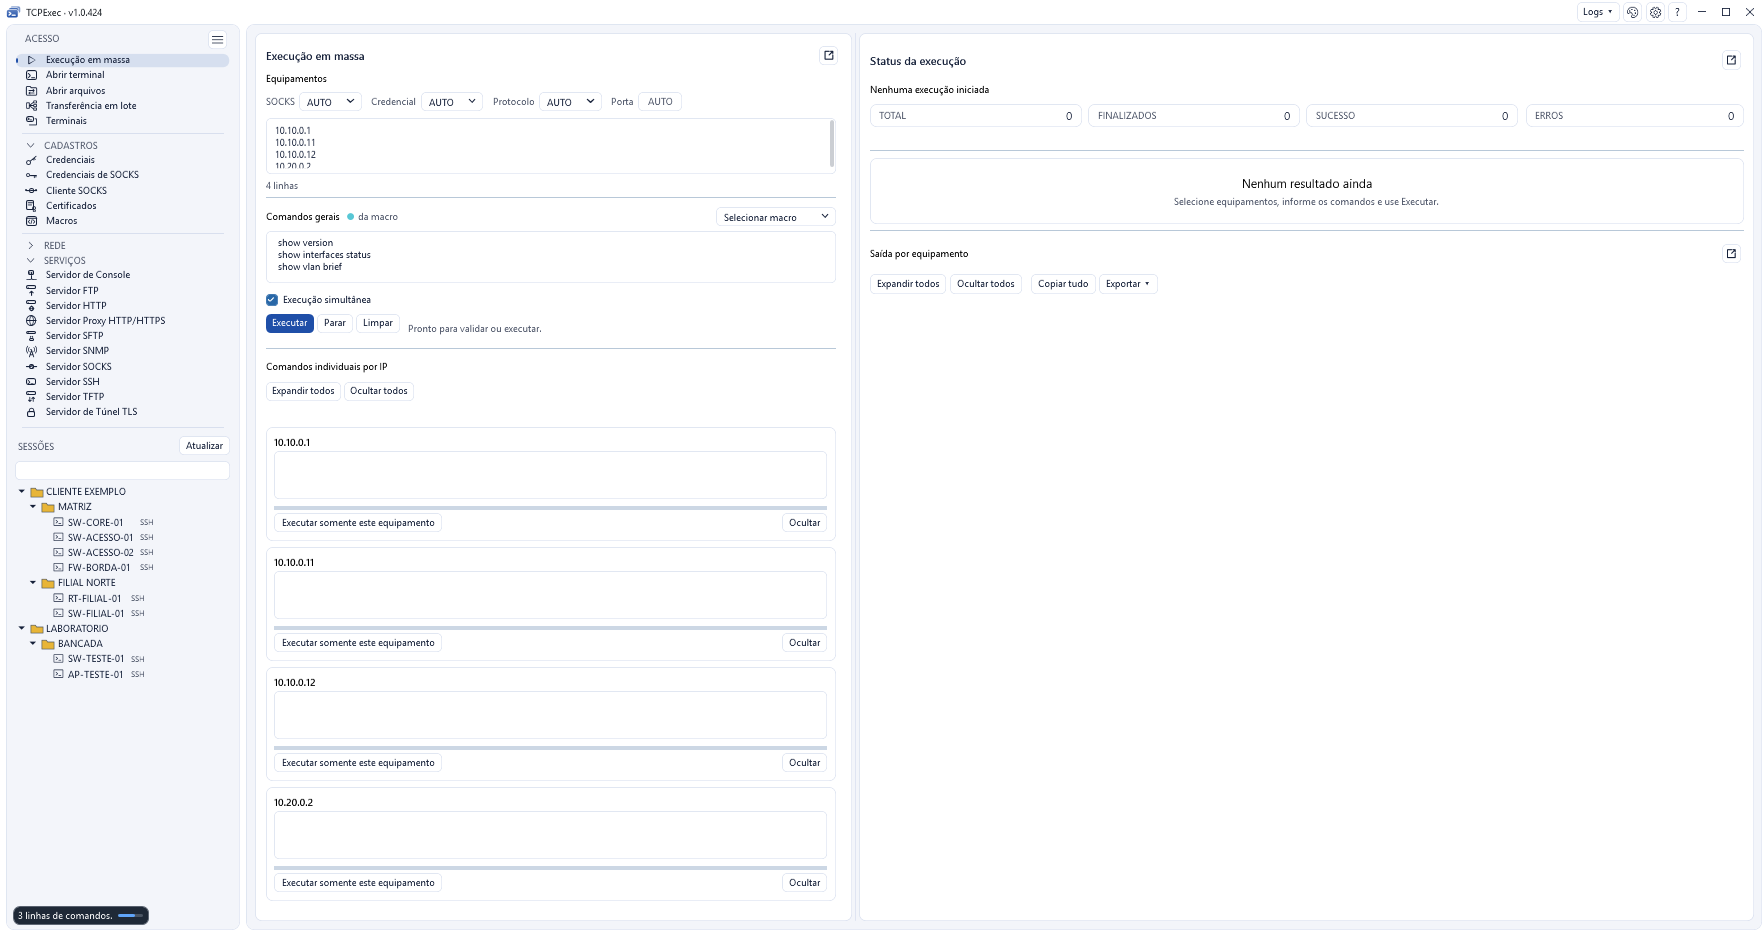
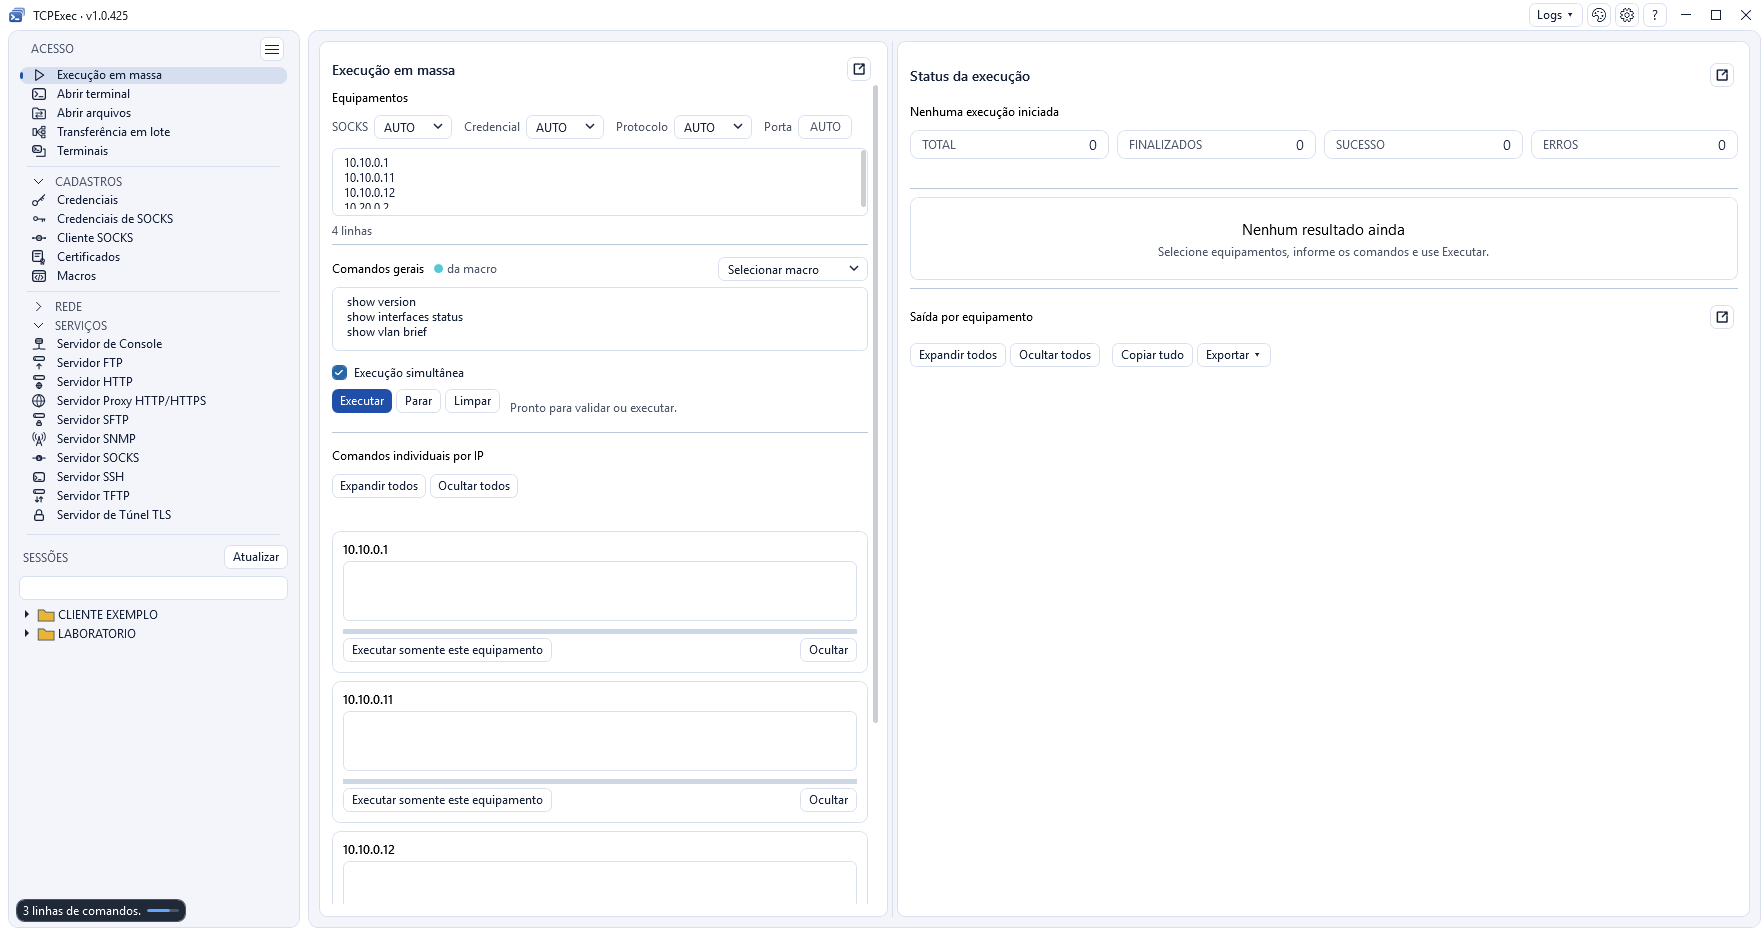
README: versão 1.0.425 (.NET 11) e telas novas

diff --git a/README.md b/README.md
@@ -1,6 +1,6 @@
 # Atualizações do TCPExec
 
-Para atualizar manualmente o TCPExec, abra a [distribuição oficial 1.0.424](https://github.com/Dorflex-DD/TCPExec/releases/tag/v1.0.424). Escolha o instalador MSI para uma instalação Windows ou o ZIP para uma cópia portátil.
+Para atualizar manualmente o TCPExec, abra a [distribuição oficial 1.0.425](https://github.com/Dorflex-DD/TCPExec/releases/tag/v1.0.425). Escolha o instalador MSI para uma instalação Windows ou o ZIP para uma cópia portátil.
 
 Quem já usa o TCPDesk encontra os pacotes no [canal do TCPDesk](https://github.com/Dorflex-DD/TCPDesk-releases/releases/latest).
 
@@ -16,4 +16,4 @@ Servidores prontos: TFTP e SSH (também FTP, SFTP, HTTP, SOCKS, proxy, SNMP e co
 
 ![Servidor SSH](telas/servidor-ssh.png)
 
-*Telas da versão 1.0.424, com dados fictícios.*
+*Telas da versão 1.0.425, com dados fictícios.*
